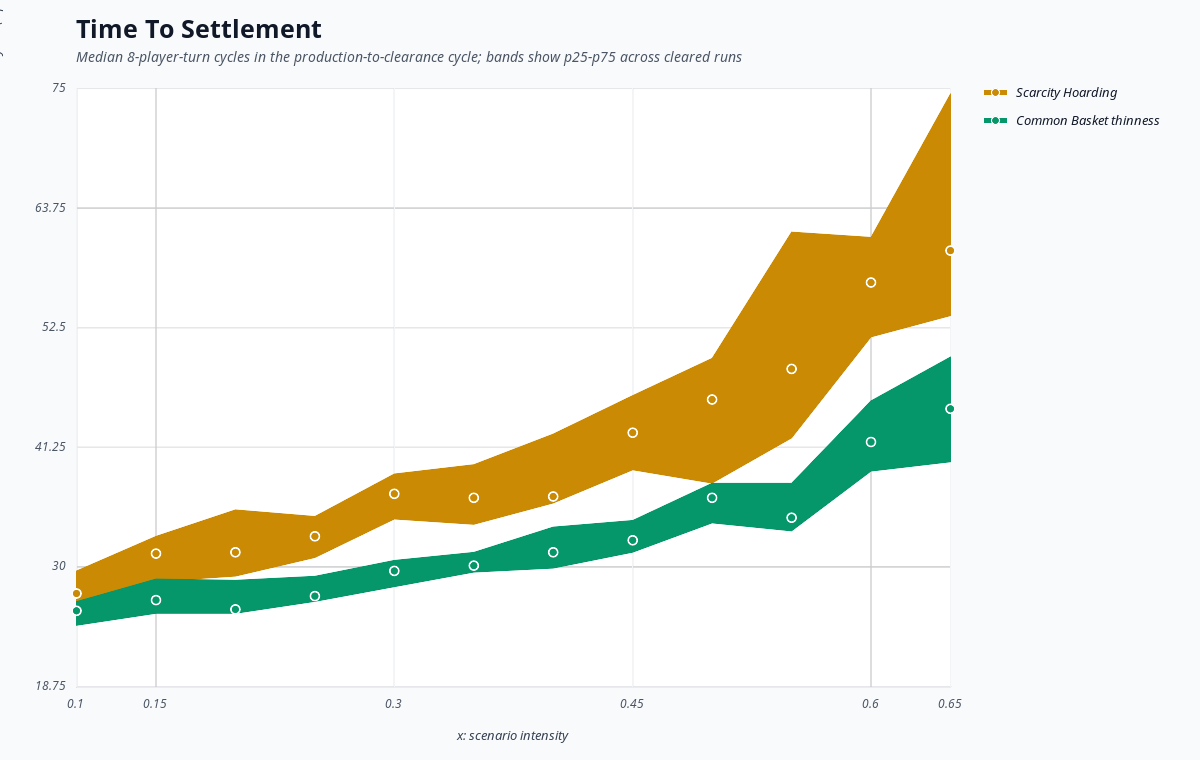
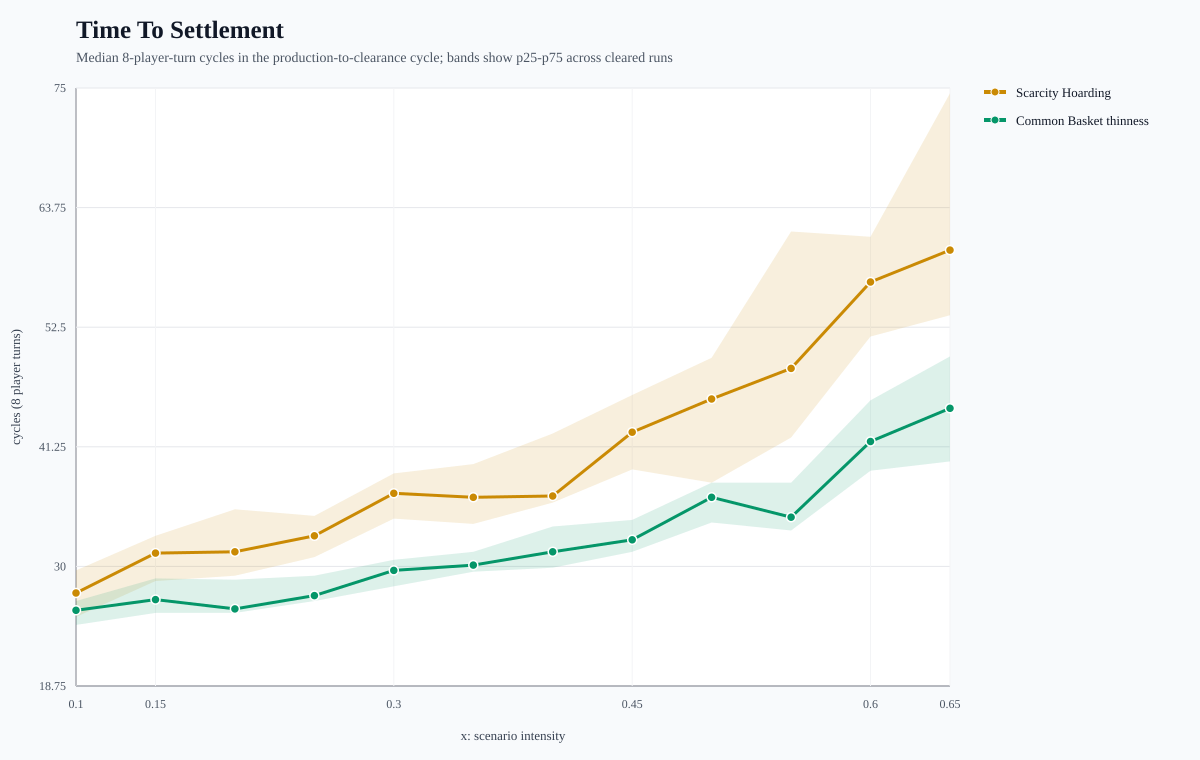
added skip

diff --git a/server/test/game.test.ts b/server/test/game.test.ts
@@ -1890,6 +1890,69 @@ describe("platter, offers, and visibility", () => {
     expect(snapshot.gameStats).toEqual(stats);
   });
 
+  it("counts shared food pieces by quantity and does not treat ingredient settlement swaps as food pieces", () => {
+    const { table } = startTable(8, "stats-quantities");
+    const [first] = activeParticipants(table);
+    first.realIngredientStock = (first.realIngredientStock ?? table.stockPerIngredient) - 6;
+    table.dishes = {
+      dish_stats: {
+        id: "dish_stats",
+        ownerParticipantId: first.id,
+        name: "Bean Dip",
+        unitSingular: "scoop",
+        unitPlural: "scoops",
+        totalParts: DISH_PARTS_PER_DISH,
+        partsRemaining: 0,
+        partsEaten: DISH_PARTS_PER_DISH,
+        totalBites: DISH_PARTS_PER_DISH,
+        bitesRemaining: 0,
+        biteCounts: { [first.id]: DISH_PARTS_PER_DISH }
+      }
+    };
+    table.transactionHistory.push(
+      {
+        id: "tx_test_ingredient_settlement",
+        turn: table.turn,
+        participantId: first.id,
+        name: first.name,
+        action: "Settlement Swap",
+        counterparty: "Platter",
+        itemOut: "Rice",
+        itemBack: "Cheese"
+      },
+      {
+        id: "tx_test_food_settlement",
+        turn: table.turn,
+        participantId: first.id,
+        name: first.name,
+        action: "Settlement Swap",
+        counterparty: "Platter",
+        itemOut: "Rice",
+        itemBack: "Bean Dip scoop"
+      },
+      {
+        id: "tx_test_share_bundle",
+        turn: table.turn,
+        participantId: first.id,
+        name: first.name,
+        action: "Share",
+        counterparty: first.name,
+        itemOut: "Bean Dip scoop x3",
+        itemBack: "Shared"
+      }
+    );
+
+    const stats = computeGameStats(table);
+
+    expect(stats.settlementSwapCount).toBe(2);
+    expect(stats.foodPieceSettlementSwapCount).toBe(1);
+    expect(stats.eatCount).toBe(DISH_PARTS_PER_DISH);
+    expect(stats.productivityCount).toBe(DISH_PARTS_PER_DISH);
+    expect(stats.assetLossCount).toBe(6);
+    expect(stats.profitCount).toBe(4);
+    expect(stats.profitGainPercent).toBeCloseTo(66.667);
+  });
+
   it("analyzes EGGS37-style recipe fulfillment and exchange timing from CSV", async () => {
     const analyzer = await import("../../scripts/analyze-transactions.mjs");
     const catalog = JSON.parse(readFileSync("../client/data/recipe_catalog.json", "utf8"));

diff --git a/server/src/gameStats.ts b/server/src/gameStats.ts
@@ -1,4 +1,5 @@
 import { activeParticipants } from "./game.js";
+import { INGREDIENTS } from "./constants.js";
 import type { GameStats, Table, TransactionAction, TransactionRecord } from "./types.js";
 
 export function computeGameStats(table: Table): GameStats {
@@ -13,7 +14,7 @@ export function computeGameStats(table: Table): GameStats {
   const settlementRows = history.filter((transaction) => transaction.action === "Settlement Swap");
   const settlementSwapCount = settlementRows.length;
   const assetLossCount = countConsumedRealIngredients(table);
-  const productivityCount = countAction(history, "Share") + countAction(history, "Eat");
+  const productivityCount = countSharedFoodPieces(table, history);
   const totalTrades = commonBasketSwapCount + directExchangeCount + settlementSwapCount;
   return {
     activePlayerCount,
@@ -56,8 +57,11 @@ function settlementSwapInvolvesFoodPiece(transaction: TransactionRecord): boolea
 }
 
 function transactionAssetIsFoodPiece(label: string): boolean {
-  const normalized = label.trim().toLowerCase();
-  return normalized !== "" && normalized !== "none" && normalized !== "turn" && !normalized.includes("card");
+  const normalized = normalizeAssetLabel(label);
+  if (!normalized) {
+    return false;
+  }
+  return !INGREDIENTS.some((ingredient) => ingredient.name.trim().toLowerCase() === normalized);
 }
 
 function countConsumedRealIngredients(table: Table): number {
@@ -65,6 +69,16 @@ function countConsumedRealIngredients(table: Table): number {
     const remaining = participant.realIngredientStock ?? table.stockPerIngredient;
     return total + Math.max(0, table.stockPerIngredient - remaining);
   }, 0);
+}
+
+function countSharedFoodPieces(table: Table, history: TransactionRecord[]): number {
+  const dishStateTotal = Object.values(table.dishes ?? {}).reduce((total, dish) => total + Math.max(0, dish.partsEaten ?? 0), 0);
+  if (dishStateTotal > 0) {
+    return dishStateTotal;
+  }
+  return history
+    .filter((transaction) => transaction.action === "Share" || transaction.action === "Eat")
+    .reduce((total, transaction) => total + assetQuantity(transaction.itemOut), 0);
 }
 
 function percentGain(productivityCount: number, assetLossCount: number): number {